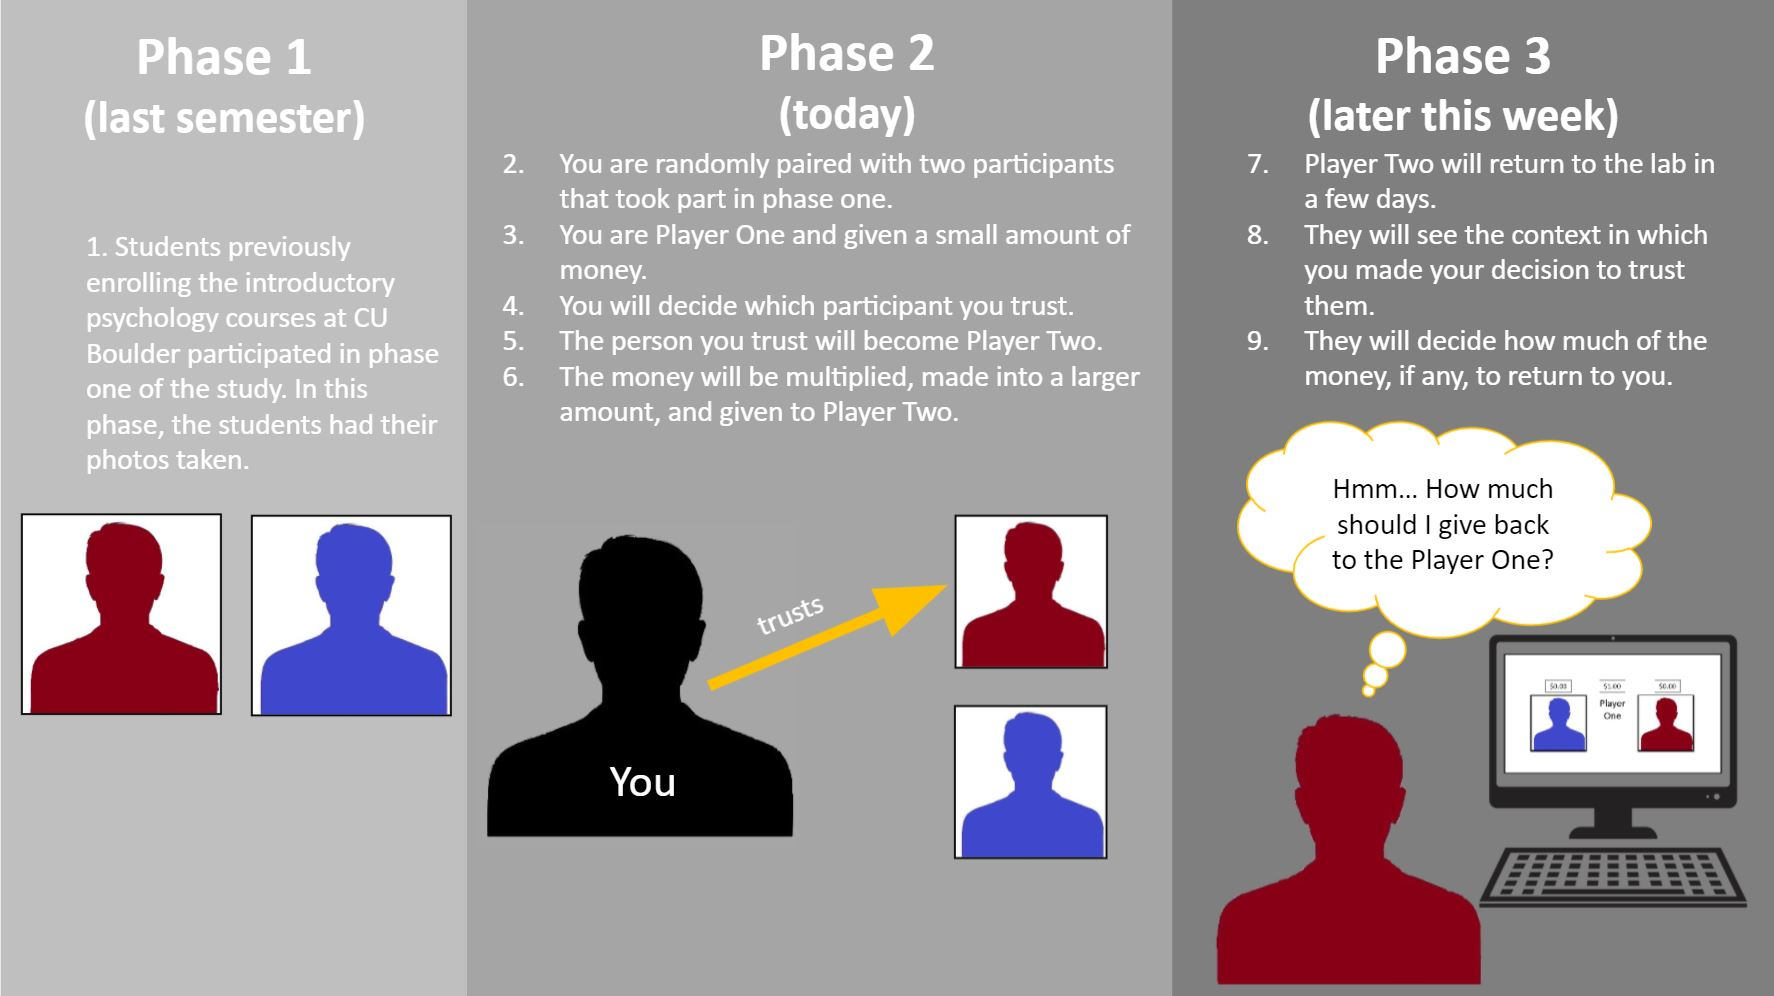
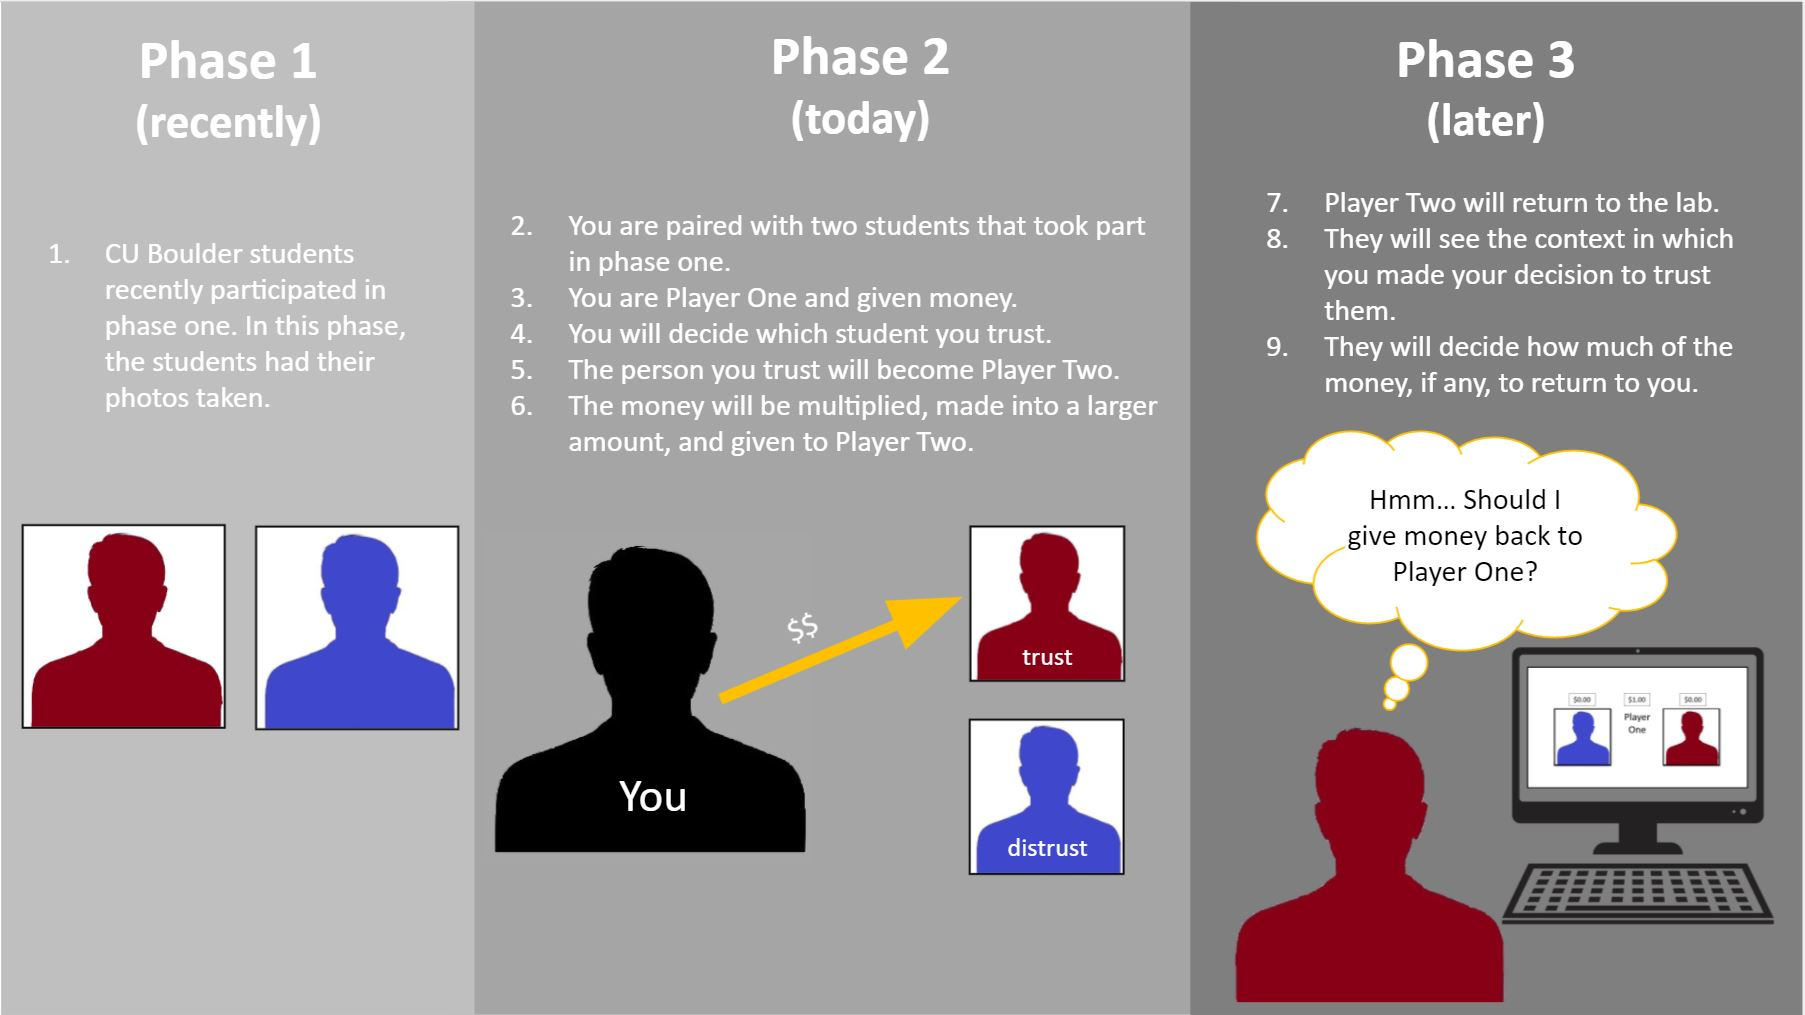
changes after leaf and eric went through the experiment

diff --git a/src/data/instructions.js b/src/data/instructions.js
@@ -6,7 +6,9 @@ import DemoCNegative from "../assets/demo_c_negative.jpg";
 import DemoLetters from "../assets/demo_letters.jpg";
 import ExperimentOverview from "../assets/experiment_overview.jpg";
 import TrustOverview1 from "../assets/trust_overview_1.jpg";
+import DistrustOverview1 from "../assets/distrust_overview_1.jpg";
 import TrustOverview2 from "../assets/trust_overview_2.jpg";
+import DistrustOverview2 from "../assets/distrust_overview_2.jpg";
 
 const defaultPrompt = "Press ENTER to continue."
 
@@ -14,7 +16,7 @@ export default [[
   {
     items: [
       `The purpose of this study is to examine how people make social decisions while engaging in other cognitive tasks. There are three phases in this study; You are participating in the second phase.`,
-      `Last semester, during phase one, CU Boulder students came into the lab and we took their photos. You will see their photos during some part of today’s study. After you finish with the second phase of the study today, those CU Boulder students from phase one will return to take part in phase three.`,
+      `Recently, during phase one, CU Boulder students came into the lab and we took their photos. You will see their photos during some part of today’s study. After you finish with the second phase of the study today, those CU Boulder students from phase one will return to take part in phase three.`,
       `On the next slide there will be a diagram outlining the phases of this study.`
     ],
     timeout: 10000,
@@ -72,13 +74,20 @@ export default [[
 ], [{
     items: [
       "In the decision task there are two roles: Player One and Player Two. You will be Player One, and you will get to choose who becomes Player Two from the two CU Boulder students you are paired with.",
-      "You will be given a small sum of money. Then, you will decide which CU Boulder student you trust more by sending them your money. The student you send money to will be Player Two. Once you send them the money, it will be multiplied into a larger amount and given to Player Two. Once you are finished with your turn, Player Two will decide how much of the money they would like to give back to you.",
-      "On the next screen, there will be a diagram outlining the steps for the decision task.",
+      "You will be given a small sum of money. You will choose which CU Boulder student you trust more. Then you will give them money. That student will become Player Two. Once you are finished with you turn, Player Two will later decide how much of the mony, if any, they would like to give back to you.",
+      {
+        textItems: [
+          "Importantly, as Player One, you will identify which student you ",
+          ({negativeLanguage}) =>
+            `${ negativeLanguage ? 'dis' : '' }trust and then send ${negativeLanguage ? 'the other' : 'that'}  student your money.`
+        ],
+      },
+      "On the next screen, there will be a diagram outlining the steps for the decision task."
     ],
     timeout: 15000,
     prompt: defaultPrompt,
   }, {
-    fullPageImage: TrustOverview1,
+    fullPageImage: ({negativeLanguage}) => negativeLanguage ? DistrustOverview1 : TrustOverview1,
     timeout: 20000,
     prompt: defaultPrompt,
   }, {
@@ -123,12 +132,12 @@ export default [[
     timeout: 20000,
     prompt: "Press ENTER to continue with the decision task description.",
   }, {
-    fullPageImage: TrustOverview2,
+    fullPageImage: ({negativeLanguage}) => negativeLanguage ? DistrustOverview2 : TrustOverview2,
     timeout: 20000,
     prompt: defaultPrompt,
   }, {
-    items: ["Let's do a practice trial to orient you to the task."],
-    prompt: "Press ENTER to begin the practice trial."
+    items: ["Let's do two example trials to orient you to the task."],
+    prompt: "Press ENTER to begin the first example trial."
   }
 ], [{
     items: [

diff --git a/src/components/PracticeTrust/index.js b/src/components/PracticeTrust/index.js
@@ -8,6 +8,8 @@ import DisplayDirection from "../PictureStimsPage/DisplayDirection";
 import TrustQuestion from "../PictureStimsPage/TrustQuestion";
 import LetterStim from "../PictureStimsPage/LetterStim";
 import ShowChoice from "./ShowChoice";
+import ShowPlayerTwo from "./ShowPlayerTwo";
+import RoundTwoTransition from "./RoundTwoTransition";
 
 const letters = shuffle([
   'A','B','C','D','E',
@@ -17,20 +19,24 @@ const letters = shuffle([
   'U','V','W','Y','Z'
 ]);
 
-const PracticeLetters = ({ history, match: { url } }) => {
+const PracticeLetters = ({ history }) => {
   const [trustAnswer, setTrustAnswer] = React.useState(null);
   const [currentState, setCurrentState] = React.useState("direction");
+  const [currentRound, setCurrentRound] = React.useState(1);
   const stepTo = (to) => () => {
     setCurrentState(to);
   };
 
+  const roundIndex = currentRound - 1;
+
   switch(currentState) {
     case "direction":
       return <DisplayDirection letterPosition=">" onStep={stepTo("letters")} />;
+
     case "letters":
       return (
         <LetterStim
-          currentPage={{images: practiceImages, letters}}
+          currentPage={{images: practiceImages[roundIndex], letters}}
           letters={letters}
           letterPosition=">"
           onStep={stepTo("trust-question")}
@@ -41,7 +47,7 @@ const PracticeLetters = ({ history, match: { url } }) => {
         <DataContext.Consumer>
           {({state: {negativeLanguage}}) => (
             <TrustQuestion
-              currentPage={{images: practiceImages, letters}}
+              currentPage={{images: practiceImages[roundIndex], letters}}
               negativeLanguage={negativeLanguage}
               handleSubmit={({choice}) => {
                 setTrustAnswer(choice);
@@ -54,11 +60,30 @@ const PracticeLetters = ({ history, match: { url } }) => {
     case 'show-choice':
       return (
         <ShowChoice
-          images={practiceImages}
-          isLeft={practiceImages[0] === trustAnswer}
-          onStep={() => history.replace("/instructions/2/0")}
+          images={practiceImages[roundIndex]}
+          isLeft={practiceImages[roundIndex][0] === trustAnswer}
+          onStep={stepTo('show-player-two')}
         />
       );
+
+    case 'show-player-two':
+      return (
+        <ShowPlayerTwo
+          images={practiceImages[roundIndex]}
+          isLeft={practiceImages[roundIndex][0] === trustAnswer}
+          round={currentRound}
+          onStep={() => {
+            if (currentRound === 1) {
+              setCurrentRound(2);
+              stepTo('round-two-transition')();
+              return;
+            }
+            history.replace("/instructions/2/0")
+          }}
+        />
+      );
+    case "round-two-transition":
+      return <RoundTwoTransition letterPosition=">" onStep={stepTo("direction")} />;
 
     default:
       return <div />;

diff --git a/src/data/imageStims.js b/src/data/imageStims.js
@@ -100,30 +100,30 @@ import WM_34 from "../assets/males/WM_34.jpg"
 import StimRandomizer from "../utils/StimRandomizer"
 
 export const practiceImages = [
-  WF_76,
-  WF_77,
+  [WF_76, WF_77],
+  [WF_64, WF_74],
 ];
 
 export default new StimRandomizer([
   [
     // Females Group 1
-    WF_1, WF_12, WF_18, WF_28, WF_32, WF_41, WF_48,  WF_6, WF_67, WF_71 
+    WF_1, WF_12, WF_18, WF_28, WF_32, WF_41, WF_48,  WF_6, WF_67, WF_71
   ],
   [
     // Females Group 2
-    WF_11, WF_22, WF_25, WF_29, WF_33,  WF_5, WF_54, WF_58, WF_65, WF_73 
+    WF_11, WF_22, WF_25, WF_29, WF_33,  WF_5, WF_54, WF_58, WF_65, WF_73
   ],
   [
     // Females Group 3
-    WF_16, WF_21,  WF_3, WF_36,  WF_4, WF_47, WF_52, WF_56, WF_59, WF_62, WF_69, WF_72 
+    WF_16, WF_21,  WF_3, WF_36,  WF_4, WF_47, WF_52, WF_56, WF_59, WF_62, WF_69, WF_72
   ],
   [
     // Females Group 4
-    WF_14, WF_15, WF_17, WF_2, WF_23, WF_31, WF_37, WF_38, WF_45, WF_53, WF_63, WF_64, WF_74 
+    WF_14, WF_15, WF_17, WF_2, WF_23, WF_31, WF_37, WF_38, WF_45, WF_53, WF_63
   ],
   [
     // Females Group 5
-    WF_19, WF_26, WF_27, WF_34, WF_35, WF_39, WF_43, WF_44, WF_49, WF_55, WF_57, WF_61, WF_66 
+    WF_19, WF_26, WF_27, WF_34, WF_35, WF_39, WF_43, WF_44, WF_49, WF_55, WF_57, WF_61, WF_66
   ],
   [
     // Females Group 6
@@ -135,18 +135,18 @@ export default new StimRandomizer([
   ],
   [
     // Males group 1
-    WM_1, WM_13, WM_2, WM_22, WM_24, WM_33,  WM_6, WM_8 
+    WM_1, WM_13, WM_2, WM_22, WM_24, WM_33,  WM_6, WM_8
   ],
   [
     // Males group 2
-    WM_10, WM_14, WM_23, WM_29, WM_3, WM_34,  WM_7, WM_9 
+    WM_10, WM_14, WM_23, WM_29, WM_3, WM_34,  WM_7, WM_9
   ],
   [
     // Males group 3
-    WM_16, WM_19, WM_21, WM_25, WM_26, WM_28, WM_4, WM_5 
+    WM_16, WM_19, WM_21, WM_25, WM_26, WM_28, WM_4, WM_5
   ],
   [
     // Males group 4
-    WM_12, WM_15, WM_17, WM_18, WM_27, WM_31 
+    WM_12, WM_15, WM_17, WM_18, WM_27, WM_31
   ],
 ]);

diff --git a/src/components/InstructionsPage.js b/src/components/InstructionsPage.js
@@ -68,14 +68,14 @@ const renderTextInstruction = (instruction, context) => {
 
 const proceedLocations = ['/practice-letters', '/practice-trust', '/manipulation-check'];
 
-const InstructionsPage = ({history, match: { path, params: {group, page} }}) => {
+const InstructionsPage = ({history, match: { params: {group, page} }}) => {
   const intGroup = parseInt(group);
   const intPage = parseInt(page);
   const instructions = INSTRUCTIONS[intGroup];
   const numInstructions = instructions.length - 1;
   const currentPage = instructions[intPage];
 
-  const denyProgress = !useAfterTimeout(currentPage.timeout || 0);
+  const denyProgress = !useAfterTimeout(0);
   const prompt = denyProgress ? "" : currentPage.prompt;
   useKeyPress(["Enter"], () => {
     if (denyProgress) {
@@ -89,10 +89,16 @@ const InstructionsPage = ({history, match: { path, params: {group, page} }}) => 
   });
 
   if (isPresent(currentPage.fullPageImage)) {
+    const image = currentPage.fullPageImage;
+
     return (
-      <Instructions prompt={prompt}>
-        <FullPageImage alt="Image" src={currentPage.fullPageImage} />
-      </Instructions>
+      <DataContext.Consumer>
+        {({ state }) => (
+          <Instructions prompt={prompt}>
+            <FullPageImage alt="Image" src={isFunction(image) ? image(state) : image} />
+          </Instructions>
+        )}
+      </DataContext.Consumer>
     );
   }
 
@@ -100,7 +106,7 @@ const InstructionsPage = ({history, match: { path, params: {group, page} }}) => 
     <DataContext.Consumer>
       {({ state }) => (
         <Instructions prompt={prompt}>
-          {currentPage.items.map((instruction, i) => <P>{renderTextInstruction(instruction, state)}</P>)}
+          {currentPage.items.map((instruction) => <P>{renderTextInstruction(instruction, state)}</P>)}
           {isPresent(currentPage.images) && (
             <ImagesWrapper>
               {currentPage.images.map((image, i) =>

diff --git a/src/components/PracticeTrust/ShowPlayerTwo.js b/src/components/PracticeTrust/ShowPlayerTwo.js
@@ -5,9 +5,10 @@ import useKeyPress from "../../hooks/useKeyPress";
 import TrustQuestionLayout from "../ui/TrustQuestionLayout";
 
 const zeroDollars = "$0.00";
+const twoDollars = "$2.00";
 const fourDollars = "$4.00";
 
-const ShowChoice = ({ images, isLeft, onStep }) => {
+const ShowPlayerTwo = ({ images, isLeft, onStep, round }) => {
   useKeyPress(["Enter"], onStep);
 
   return (
@@ -21,7 +22,8 @@ const ShowChoice = ({ images, isLeft, onStep }) => {
       ]}
       images={images}
       prompt={[
-        "This is the participant you chose to trust. When they come back to the lab later they will decide whether to give none, some, or all the money you trusted them with back to you.",
+        `For example, imagine that when this Player Two came back to the lab, they chose to give you ${round === 1 ? zeroDollars : twoDollars} back.`,
+        `They are ${round === 1 ? 'not' : ''} trustworthy.`,
         <br />,
         "Press ENTER to continue."
       ]}
@@ -29,4 +31,4 @@ const ShowChoice = ({ images, isLeft, onStep }) => {
   );
 };
 
-export default ShowChoice;
+export default ShowPlayerTwo;

diff --git a/src/components/PracticeTrust/RoundTwoTransition.js b/src/components/PracticeTrust/RoundTwoTransition.js
@@ -1,0 +1,24 @@
+import React from "react";
+import styled from "styled-components";
+import Instructions from "../ui/Instructions"
+import useKeyPress from "../../hooks/useKeyPress";
+
+const P = styled.p`
+  font-size: 24px;
+  max-width: 1000px;
+  margin: 15px 0px;
+`;
+
+const RoundTwoTransition = ({ onStep }) => {
+  useKeyPress(["Enter"], () => {
+    onStep();
+  });
+
+  return (
+    <Instructions prompt={"Press ENTER to begin the example trial"}>
+      <P>Now we will move on to the second example trial.</P>
+    </Instructions>
+  );
+};
+
+export default RoundTwoTransition;
